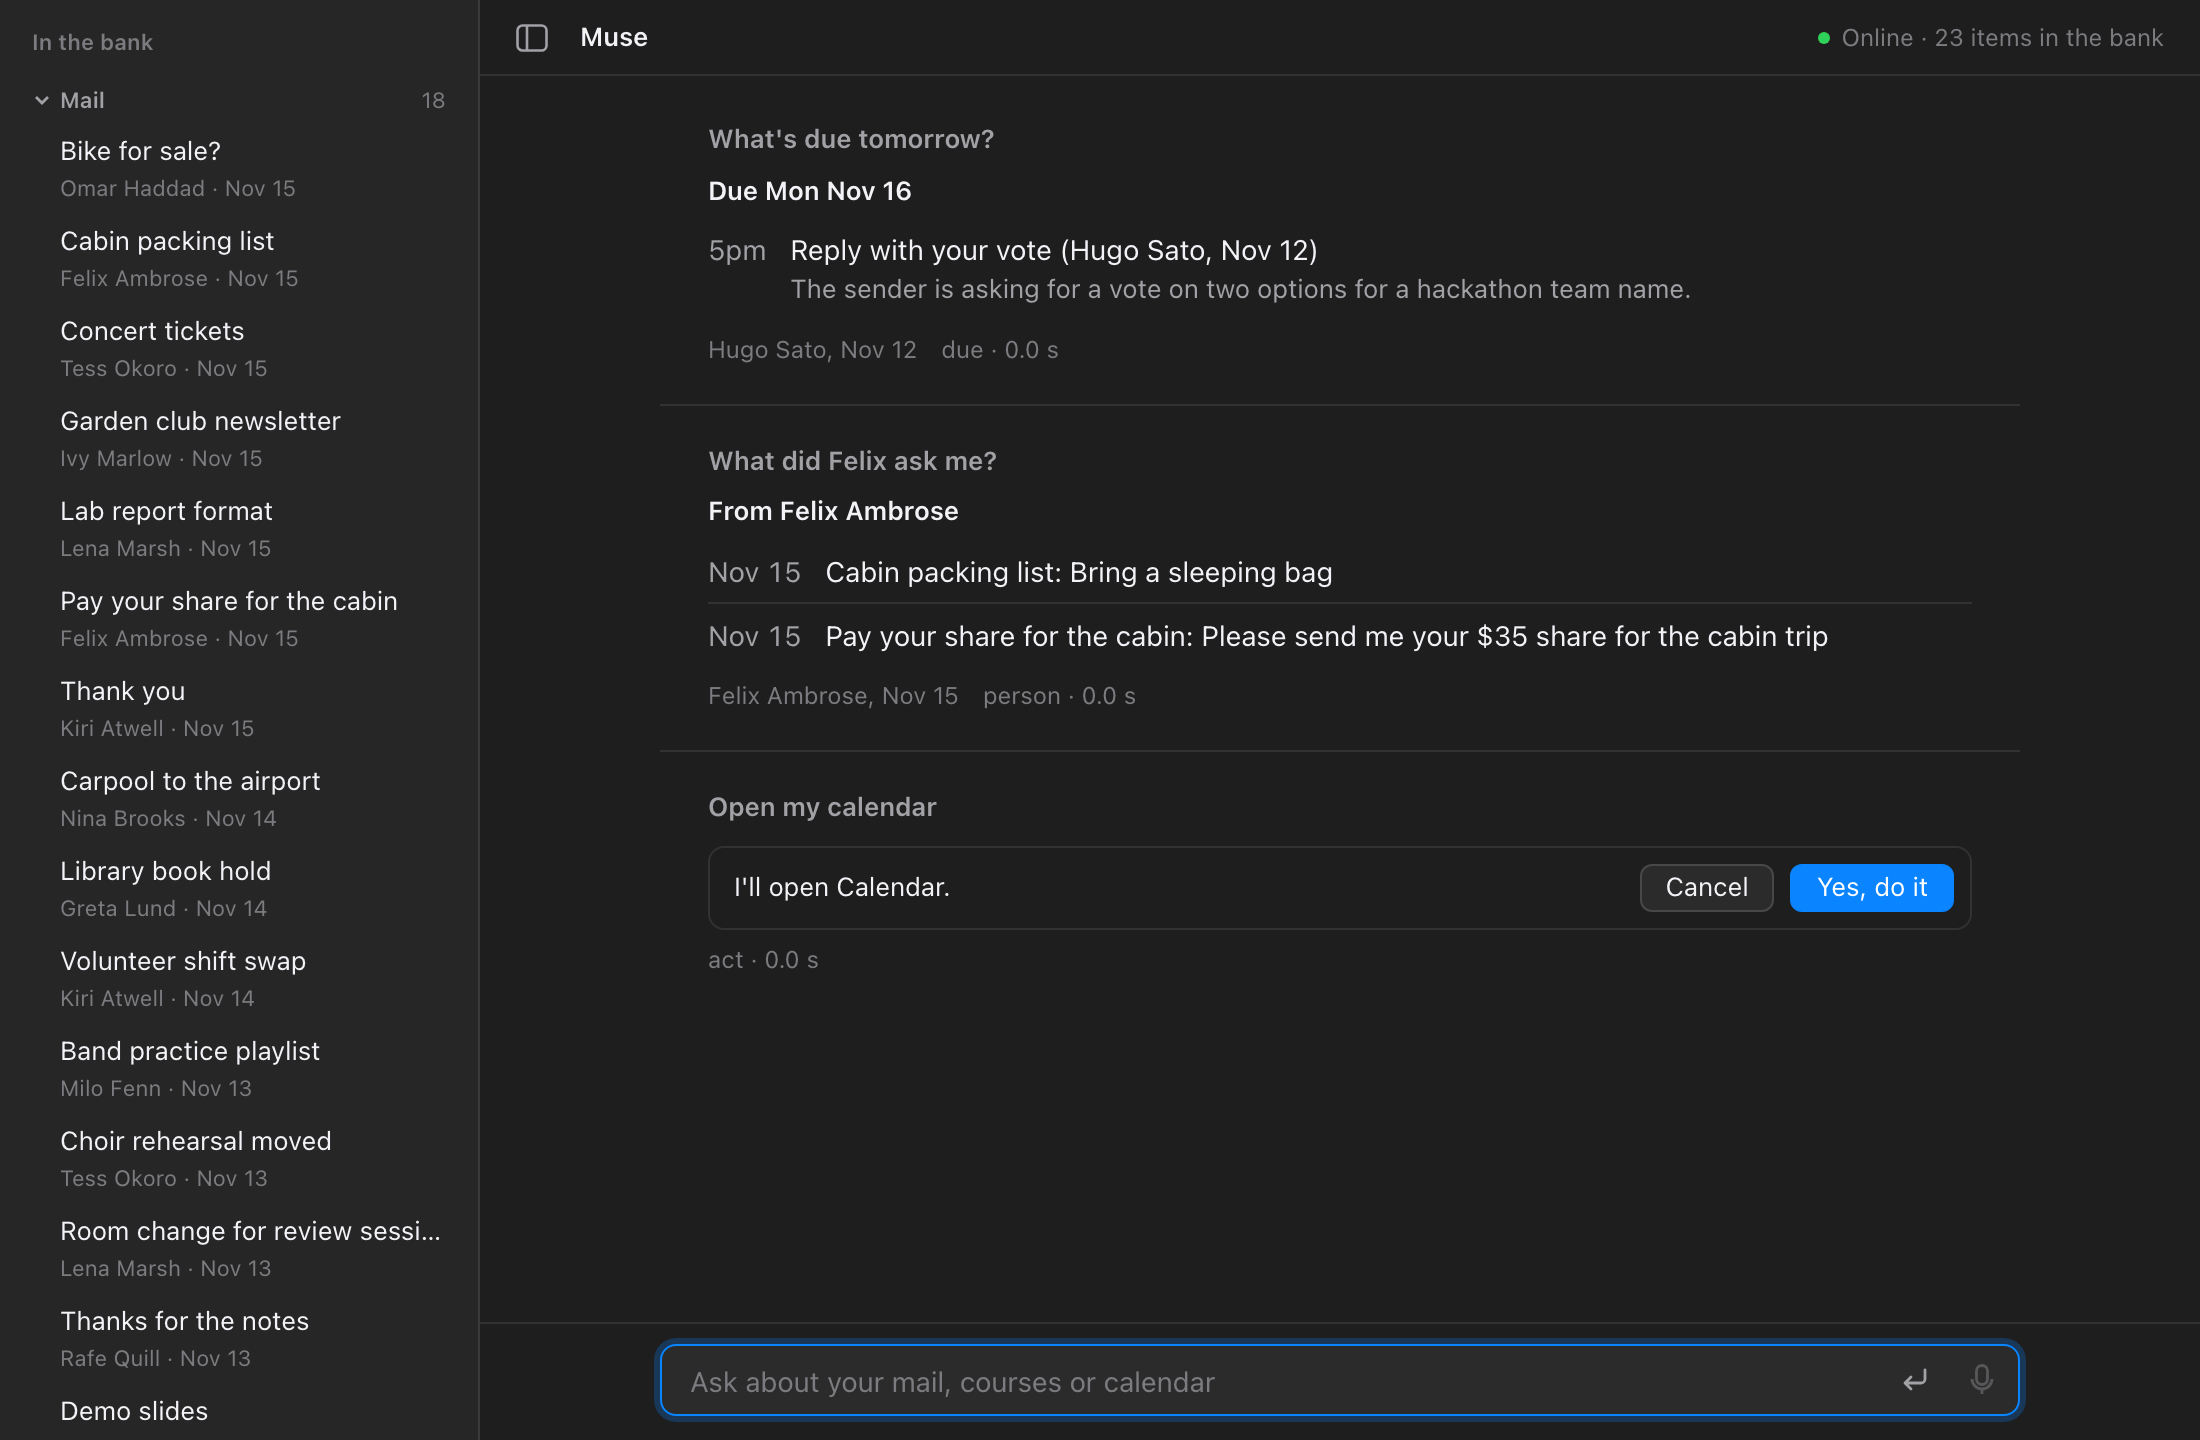
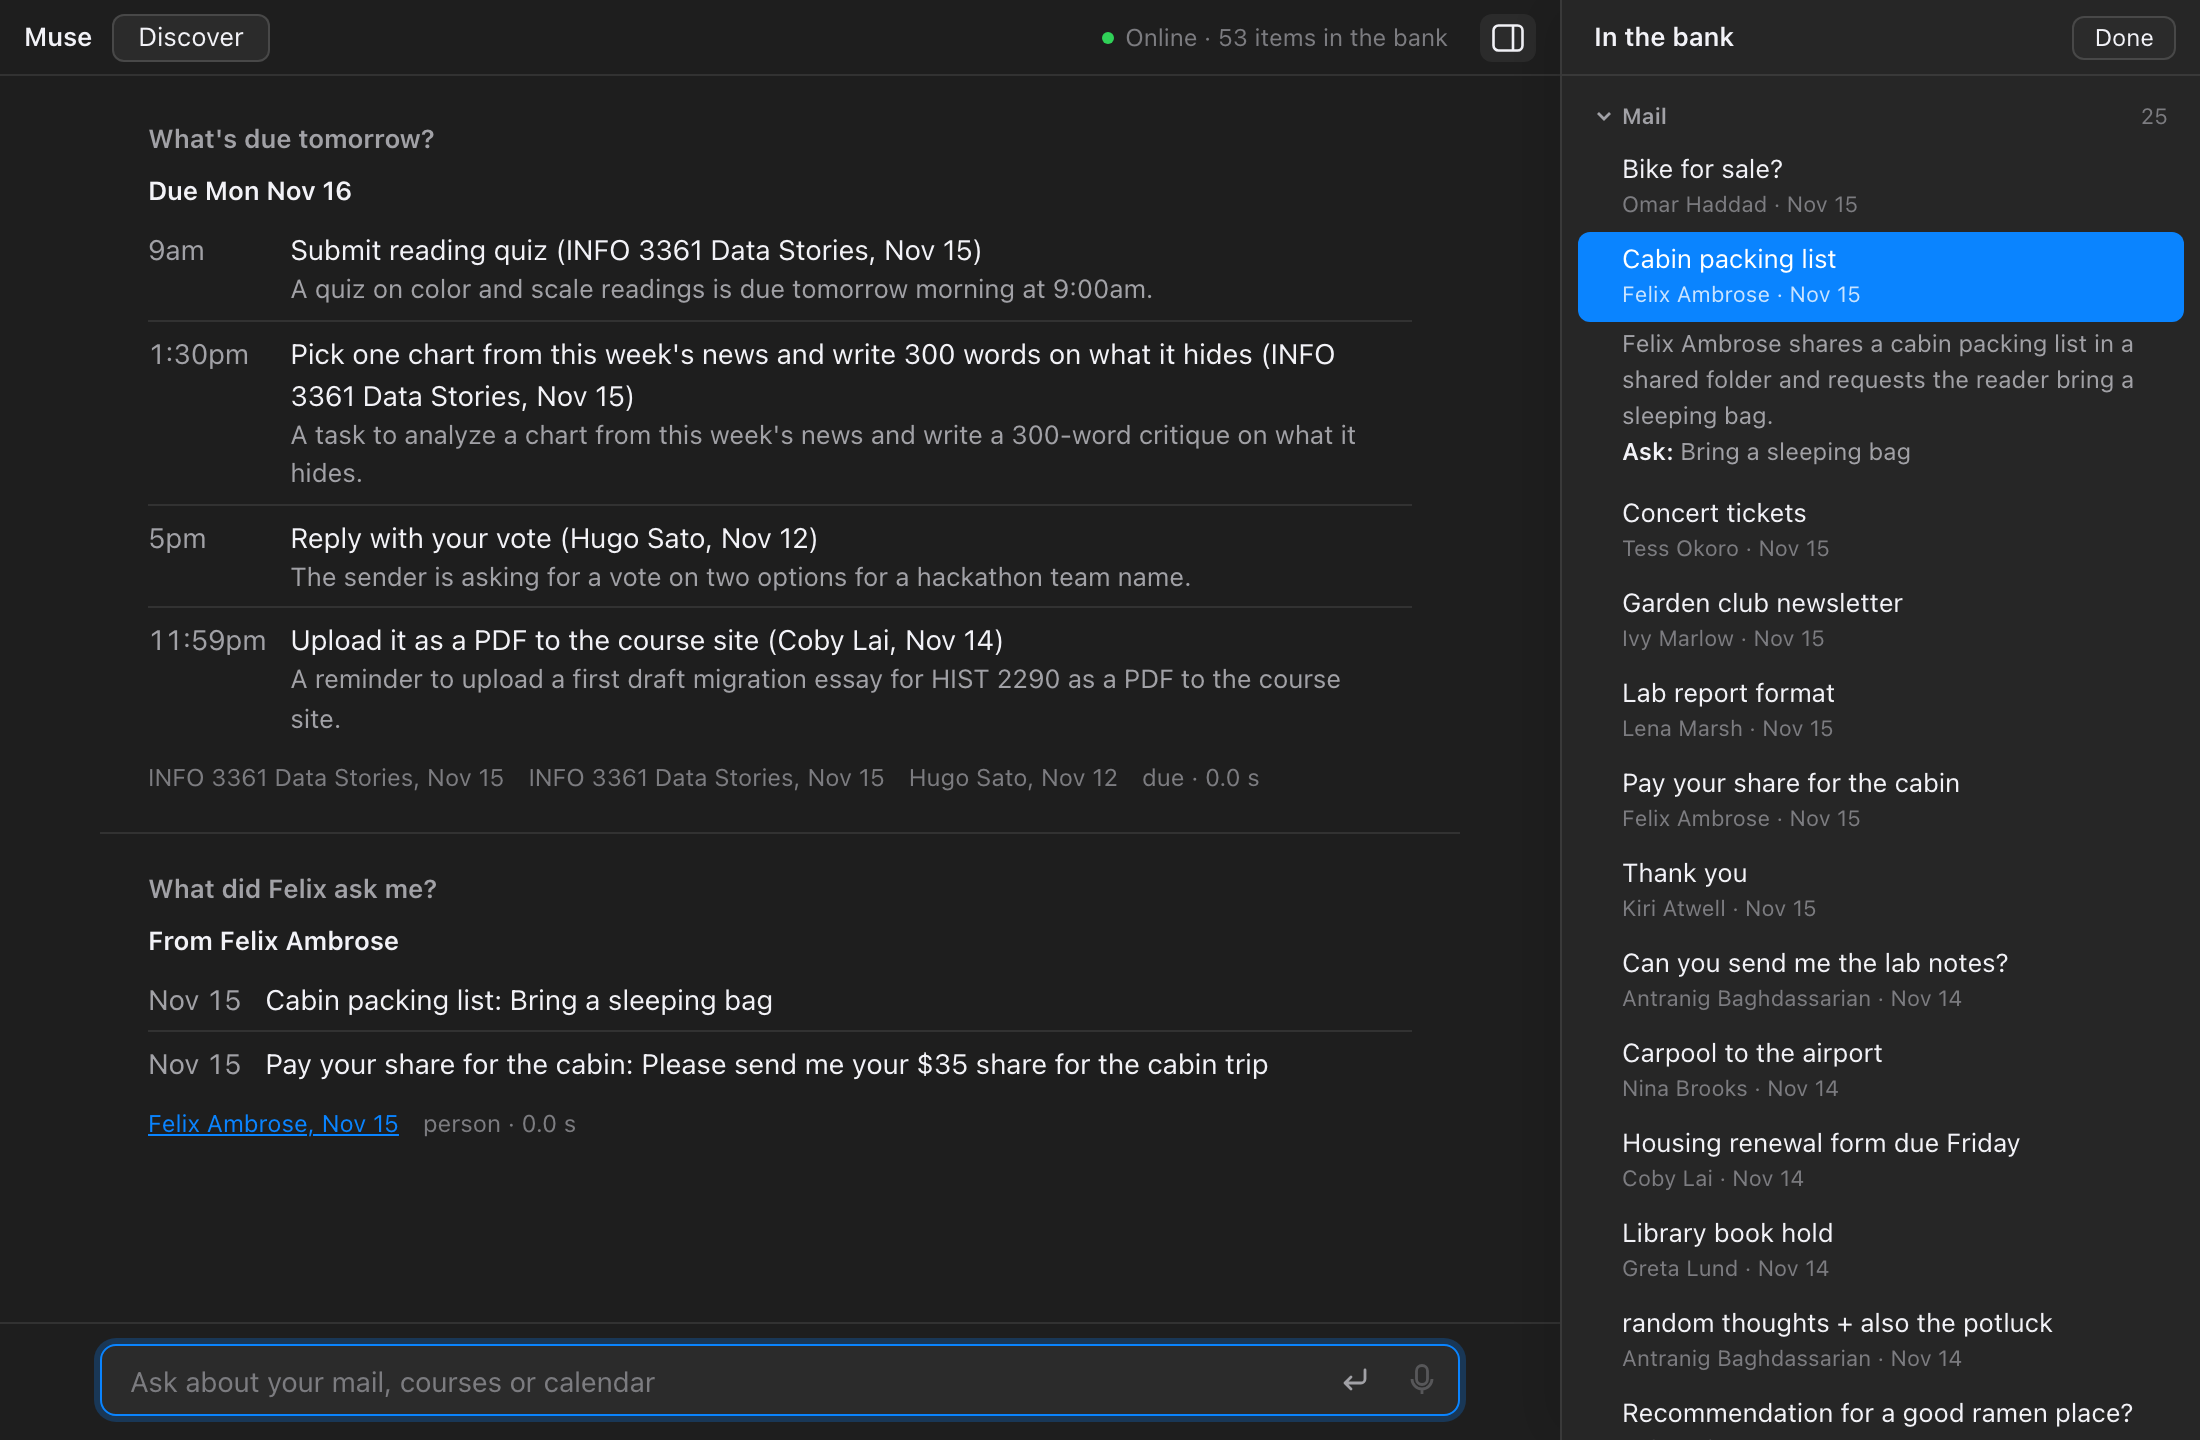
Window: bank becomes a right-side slide-over (bar button at right, Done/Escape/Cmd-B close, remembered in wide windows, hidden by default in the panel; pushes the conversation from 1000 px); empty left #chats slot for the chats list

diff --git a/reason/web.py b/reason/web.py
@@ -57,11 +57,16 @@ PAGE = """<!doctype html>
   svg { display: block; flex: none; }
   [hidden] { display: none !important; }
 
-  /* sidebar: the bank, grouped */
-  #side { width: 240px; flex: none; background: var(--side); border-right: 1px solid var(--line);
-          display: flex; flex-direction: column; min-height: 0; }
-  #side .head { display: flex; align-items: center; justify-content: space-between; min-height: 38px;
-                padding: 7px 12px 2px 16px; font-size: 11px; font-weight: 600; color: var(--text3); }
+  /* left slot: kept empty for a chats list (past conversations, worker 18); show it by removing [hidden] */
+  #chats { width: 240px; flex: none; background: var(--side); border-right: 1px solid var(--line); overflow-y: auto; }
+  /* the bank: a slide-over from the right */
+  #side { position: fixed; z-index: 3; top: 0; right: 0; bottom: 0; width: 320px; max-width: 100%; background: var(--side);
+          border-left: 1px solid var(--line); box-shadow: -8px 0 24px rgba(0,0,0,.10); display: flex; flex-direction: column;
+          transform: translateX(100%); visibility: hidden; transition: transform .2s ease, visibility 0s linear .2s; }
+  body.bankopen #side { transform: none; visibility: visible; transition: transform .2s ease; }
+  @media (prefers-reduced-motion: reduce) { #side, body.bankopen #side { transition: none; } }
+  #side .head { display: flex; align-items: center; justify-content: space-between; min-height: 38px; flex: none;
+                padding: 0 12px 0 16px; font-size: 13px; font-weight: 600; border-bottom: 1px solid var(--line); margin-bottom: 6px; }
   #sideclose { height: 22px; padding: 0 10px; font-size: 12px; font-weight: 400; color: var(--text); }
   #sidebtn[aria-pressed="true"] { background: var(--hover); color: var(--text); }
   #groups { flex: 1; overflow-y: auto; padding: 0 8px 12px; }
@@ -152,16 +157,15 @@ PAGE = """<!doctype html>
   @keyframes r { to { transform: rotate(360deg) } }
   @media (prefers-reduced-motion: reduce) { .bars i, .spin { animation-duration: 3s; } }
 
-  /* wide: sidebar beside the conversation, hidden on request */
-  @media (min-width: 761px) { body.noside #side { display: none; } }
-  /* compact (the ~640 pt panel): starts collapsed; when open, the bank covers the whole panel with a Done
-     button (Escape also closes it), so it never hides part of an answer. The page lets the panel's material show through. */
+  /* roomy windows: the open bank pushes the conversation left instead of covering it */
+  @media (min-width: 1000px) { body.bankopen main { margin-right: 320px; } }
+  /* compact (the ~640 pt panel): the bank starts hidden and, open, covers the whole panel (Done or Escape closes it).
+     The page lets the panel's material show through. */
   @media (max-width: 760px) {
     body { background: transparent; }
-    #side { position: fixed; z-index: 3; inset: 0; width: auto; border-right: 0; }
-    #side .head { border-bottom: 1px solid var(--line); font-size: 13px; color: var(--text); margin-bottom: 6px; }
-    body:not(.sideopen) #side { display: none; }
-    body.sideopen main { visibility: hidden; }
+    #side { width: 100%; border-left: 0; box-shadow: none; }
+    body.bankopen main { visibility: hidden; }
+    #chats { display: none; }
     .turn, .empty { padding-left: 18px; padding-right: 18px; }
     .hint { display: none; }
   }
@@ -173,16 +177,13 @@ PAGE = """<!doctype html>
   }
 </style></head>
 <body>
-<aside id="side" aria-label="In the bank">
-  <div class="head"><span>In the bank</span><button type="button" class="btn" id="sideclose" title="Hide the bank (⌘B)">Hide</button></div>
-  <div id="groups"></div>
-</aside>
+<nav id="chats" aria-label="Chats" hidden></nav>
 <main>
   <div class="bar">
-    <button class="iconbtn" type="button" id="sidebtn" title="Show the bank (⌘B)" aria-pressed="false"><svg width="16" height="14" viewBox="0 0 16 14"><rect x=".75" y=".75" width="14.5" height="12.5" rx="2.5" fill="none" stroke="currentColor" stroke-width="1.3"/><path d="M5.5 1v12" stroke="currentColor" stroke-width="1.3"/></svg></button>
     <h1>Muse</h1>
     <button type="button" class="btn" id="discover" title="Let Muse ask you a few questions about yourself">Discover</button>
     <button type="button" id="status" title="Show what's in the bank"><span class="dot"></span>Checking…</button>
+    <button class="iconbtn" type="button" id="sidebtn" title="Show the bank (⌘B)" aria-pressed="false"><svg width="16" height="14" viewBox="0 0 16 14"><rect x=".75" y=".75" width="14.5" height="12.5" rx="2.5" fill="none" stroke="currentColor" stroke-width="1.3"/><path d="M10.5 1v12" stroke="currentColor" stroke-width="1.3"/></svg></button>
   </div>
   <div id="log" aria-live="polite"></div>
   <form id="f">
@@ -194,6 +195,10 @@ PAGE = """<!doctype html>
     </div>
   </form>
 </main>
+<aside id="side" aria-label="In the bank">
+  <div class="head"><span>In the bank</span><button type="button" class="btn" id="sideclose" title="Close (Escape)">Done</button></div>
+  <div id="groups"></div>
+</aside>
 <script>
 /* Hooks other code relies on (keep them):
    ids #q #send #talk #status; POST /ask -> r.pending shows Yes / Cancel;
@@ -337,7 +342,7 @@ async function ask(question, spoken, into) {
   if (pending && pending.row) { pending.row.remove(); pending = null; }  // a typed or spoken discovery reply
   if (pending && !/^(yes|no)$/i.test(question)) { pending = null; }  // any other question drops the held action
   busy = true; send.disabled = true;
-  if (document.body.classList.contains('sideopen')) toggleSide(false);  // compact: show the answer, not the bank
+  if (sideShown() && !window.matchMedia('(min-width: 1000px)').matches) toggleSide(false, true);  // the bank would cover the answer
   let t;
   if (into) {
     into.textContent = ''; const w = el('div', 'working'); w.appendChild(el('span', 'spin'));
@@ -422,7 +427,7 @@ document.addEventListener('keydown', (ev) => {
   if (altTimer) { clearTimeout(altTimer); altTimer = null; }
   if (ev.key === 'Escape') {
     if (recording) { altTalk = false; stopTalk(true); }
-    else if (!isWide() && document.body.classList.contains('sideopen')) toggleSide(false);
+    else if (sideShown()) toggleSide(false);
     else if (pending) pending.cancel();
     ev.preventDefault(); return;
   }
@@ -445,24 +450,25 @@ const GROUPS = [
   ['me', 'Notes about you', (r) => r.folder === 'me'],
 ];
 function isWide() { return window.matchMedia('(min-width: 761px)').matches; }
-// Show / hide the bank: the bar's sidebar button, Hide in the sidebar, or ⌘B. The wide choice is remembered per
-// viewer; the compact panel always starts with it hidden (open, it covers the conversation).
-function sideShown() { return isWide() ? !document.body.classList.contains('noside') : document.body.classList.contains('sideopen'); }
+// Show / hide the bank (a slide-over on the right): the bar's bank button, Done, Escape or ⌘B.
+// Remembered per viewer in wide windows; the compact panel always starts with it hidden.
+// keep: closing it for an answer doesn't change the remembered choice.
+function sideShown() { return document.body.classList.contains('bankopen'); }
 function syncSideBtn() {
   const on = sideShown(), b = $('sidebtn');
   b.setAttribute('aria-pressed', on ? 'true' : 'false'); b.title = (on ? 'Hide' : 'Show') + ' the bank (⌘B)';
 }
-function toggleSide(show) {
-  const b = document.body, on = show ?? !sideShown();
-  if (isWide()) { b.classList.toggle('noside', !on); store('muse.side', on ? '1' : '0'); }
-  else b.classList.toggle('sideopen', on);
+function toggleSide(show, keep) {
+  const on = show ?? !sideShown();
+  document.body.classList.toggle('bankopen', on);
+  if (isWide() && !keep) store('muse.bank', on ? '1' : '0');
   syncSideBtn();
   if (!recording) q.focus();
 }
-if (store('muse.side') === '0') document.body.classList.add('noside');
+if (isWide() && store('muse.bank') === '1') document.body.classList.add('bankopen');
 $('sidebtn').onclick = () => toggleSide();
 $('sideclose').onclick = () => toggleSide(false);
-window.matchMedia('(min-width: 761px)').addEventListener('change', () => { document.body.classList.remove('sideopen'); syncSideBtn(); });
+window.matchMedia('(min-width: 761px)').addEventListener('change', (e) => { if (!e.matches) document.body.classList.remove('bankopen'); syncSideBtn(); });
 document.addEventListener('keydown', (ev) => {
   if ((ev.metaKey || ev.ctrlKey) && !ev.altKey && !ev.shiftKey && ev.key.toLowerCase() === 'b') { ev.preventDefault(); toggleSide(); }
 });

diff --git a/docs/window.md b/docs/window.md
@@ -8,12 +8,12 @@ The chat page (`reason/web.py`) and the Mac app that shows it.
 
 ### Layout
 
-- **Bar:** a sidebar button, the name, and one status line on the right (online or offline, items in the bank). Clicking the status line shows the bank.
+- **Bar:** the name, Discover, one status line (online or offline, items in the bank), and the bank button at the far right. Clicking the status line also shows the bank.
 - **Conversation:** it reads like a document. Each question is a small grey line, and the answer is plain text under it. Answer lines of the form `- when  what` (two spaces) become a table with the dates aligned. Other `- ` lines become a list. A short line ending in `:` becomes a heading. An indented line becomes a note under the row above it.
-- **Under each answer:** a muted line with the source and the route and time. A bank source opens that entry in the sidebar. A web source opens the page.
+- **Under each answer:** a muted line with the source and the route and time. A bank source opens that entry in the bank. A web source opens the page.
 - **Actions:** when `/ask` returns `pending`, the first line of the answer (what will happen) and **Cancel / Yes, do it** sit in one row under the answer. The result replaces the buttons in that row. Escape is Cancel.
 - **Discover:** the Discover button in the top bar sends `discover` to `/ask`. While a discovery question is held, `/ask` returns `choices` and the answer gets **Yes / No / Skip / Stop** buttons; each reply (and the next question) is a new turn. Escape is Stop. See `playbooks/discover.md`.
-- **Sidebar:** the bank, grouped into Mail, Coursework, Notes about you and People. Each group collapses. Clicking an item shows its summary, ask and due dates. Clicking a person asks "Who is …?". People are the senders of mail in the bank.
+- **The bank (right):** a slide-over from the right, grouped into Mail, Coursework, Notes about you and People. Each group collapses. Clicking an item shows its summary, ask and due dates. Clicking a person asks "Who is …?". People are the senders of mail in the bank.
 - **Empty state:** three example questions from the playbooks (due, calendar, person). Clicking one asks it.
 - **Input:** one text field with a send button and a talk button. Return sends.
 
@@ -33,9 +33,9 @@ Keyboard focus goes back to the text field after every action, except while list
 
 ### Sizes
 
-- **Show / hide the bank** at any width: the sidebar button at the top left (it looks pressed while the bank is shown), **Hide** at the top of the sidebar, or ⌘B.
-- **Wider than 760 px:** the sidebar sits beside the conversation, shown by default. Hiding it is remembered in this browser (localStorage).
-- **760 px or narrower** (the ~640 pt hotkey panel): the sidebar always starts hidden. When it's open, the bank covers the whole panel with a **Hide** button, and Escape also closes it, so it never hides part of an answer or the input. Asking a question, or clicking a person, closes it. The page background is transparent, so the panel's system material shows through.
+- **Show / hide the bank** at any width: the bank button at the top right (it looks pressed while the bank is shown), **Done** at the top of the bank, Escape, or ⌘B. It starts hidden.
+- **Wider than 760 px:** the choice is remembered in this browser (localStorage). From 1000 px up, the open bank pushes the conversation left. Between 761 and 999 px it slides over the conversation, and asking a question closes it.
+- **760 px or narrower** (the ~640 pt hotkey panel): the bank always starts hidden. When it's open it covers the whole panel, so it never hides part of an answer or the input. Asking a question, or clicking a person, closes it. The page background is transparent, so the panel's system material shows through.
 - **480 px or narrower:** each table row puts its date above the item.
 - The conversation column is at most 680 px wide and centred at full screen.
 
@@ -50,6 +50,8 @@ Keep these working:
 - `window.museFocus()`: puts the cursor in the text field (it does nothing while listening).
 - `POST /ask` → `pending: true` shows Cancel / Yes. Yes and Cancel send `yes` / `no` to `/ask`.
 - `POST /ask` → `choices: [[label, word]]` (discovery) shows those buttons instead; each sends its word to `/ask`. `#discover` is the Discover button.
+- `#chats`: the left slot. It is an empty `<nav id="chats" hidden>` before `<main>`, kept for a chats list (past conversations, worker 18). Remove `hidden` to show it as a 240 px column at the left. It is hidden in the compact panel.
+- `#side` / `#sidebtn` / `#sideclose` and `body.bankopen`: the bank slide-over and its toggles.
 - `GET /bank` rows carry `folder` (course, person, other, me) and `id`, which the sidebar groups by and the source line links by.
 
 ### Before and after
@@ -63,16 +65,17 @@ At the 640 pt panel size, light and dark (the before shots are from before the r
 | after, empty | ![](window/after-panel-empty-light.png) | ![](window/after-panel-empty-dark.png) |
 | after, long due list | ![](window/after-panel-list-light.png) | ![](window/after-panel-list-dark.png) |
 | after, bank open | ![](window/after-panel-bank-light.png) | ![](window/after-panel-bank-dark.png) |
+| after, bank hidden | ![](window/after-panel-hidden-light.png) | ![](window/after-panel-hidden-dark.png) |
 
 At 420 px, rows stack: ![](window/after-narrow-light.png)
 
-Full width, with the bank sidebar:
+Full width, bank open and hidden:
 
 | | light | dark |
 |---|---|---|
 | before | ![](window/before-wide-light.png) | ![](window/before-wide-dark.png) |
 | after | ![](window/after-wide-light.png) | ![](window/after-wide-dark.png) |
-| after, bank hidden | ![](window/after-wide-hidden-light.png) | |
+| after, bank hidden | ![](window/after-wide-hidden-light.png) | ![](window/after-wide-hidden-dark.png) |
 
 The approved mock is `window/mock.html`, with its screenshots in `window/mock-*.png`.
 
